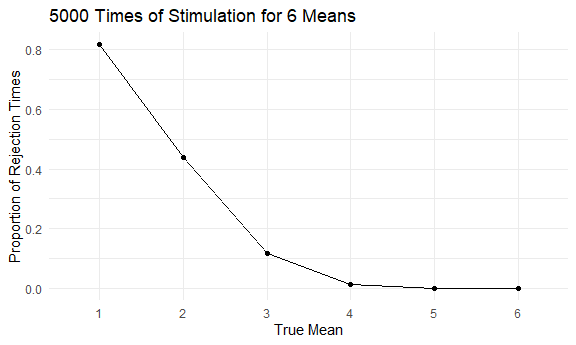
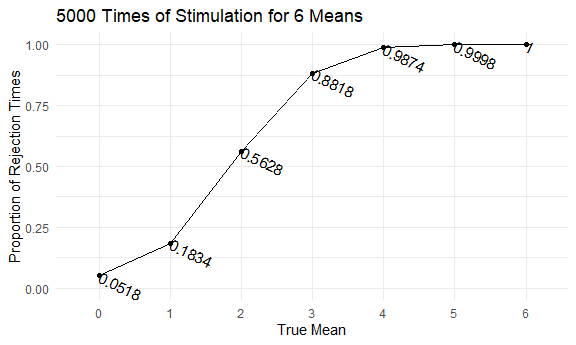
Finished the coding, left with only interpretation

diff --git a/p8105_hw5_zc2556.md b/p8105_hw5_zc2556.md
@@ -305,7 +305,7 @@ Proportion of Rejecting the Null based on 0.05 alpha when mu = 0.
 test = function(stimulate_data, true_mu) {
   sim_reject = 
     stimulate_data %>%
-      filter(p_value > 0.05) %>%
+      filter(p_value < 0.05) %>%
       summarise(
         prop_reject = n()/5000
       )
@@ -324,7 +324,7 @@ test(mu0,0)
     ## # A tibble: 1 x 2
     ##   prop_reject true_mu
     ##         <dbl>   <dbl>
-    ## 1       0.948       0
+    ## 1      0.0518       0
 
 ### Plot the Proportion of Reject VS True Mean
 
@@ -341,21 +341,25 @@ Make a table for plotting
 
 ``` r
 #make a data frames including the proportion and true means
-mu_all = list(mu1,mu2,mu3,mu4,mu5,mu6)
-for (i in 1:6) {
+mu_all = list(mu0,mu1,mu2,mu3,mu4,mu5,mu6)
+for (i in 1:7) {
   assign(paste0("prop_table", i), test(as.data.frame(mu_all[i]),i))
 }
-prop_table = bind_rows(prop_table1, prop_table2, prop_table3, prop_table4, prop_table5, prop_table6)
+prop_table = bind_rows(prop_table1, prop_table2, prop_table3, prop_table4, prop_table5, prop_table6, prop_table7) %>%
+  mutate(
+    true_mu = true_mu - 1
+  )
 prop_table
 ```
 
     ##   prop_reject true_mu
-    ## 1      0.8166       1
-    ## 2      0.4372       2
-    ## 3      0.1182       3
-    ## 4      0.0126       4
-    ## 5      0.0002       5
-    ## 6      0.0000       6
+    ## 1      0.0518       0
+    ## 2      0.1834       1
+    ## 3      0.5628       2
+    ## 4      0.8818       3
+    ## 5      0.9874       4
+    ## 6      0.9998       5
+    ## 7      1.0000       6
 
 Plot
 
@@ -364,12 +368,146 @@ prop_table %>%
   ggplot(aes(x = as.factor(true_mu), y = prop_reject, group  = 1)) +
   geom_point() +
   geom_line() +
+  ylim (0,1) +
+  geom_text(aes(label = prop_reject, hjust = 0, vjust = 0.5, angle = -25))+
   labs(
     title = "5000 Times of Stimulation for 6 Means",
     x = "True Mean",
     y = "Proportion of Rejection Times"
   ) + 
+  
   theme(legend.position = "bottom")
 ```
 
 <img src="p8105_hw5_zc2556_files/figure-gfm/unnamed-chunk-15-1.png" width="90%" />
+
+From the plot, we can observe a increasing trend while the true mean
+increases from 0 to 6 and the proportion of rejection times approaches
+to 1. From the plot, we can conclude that the much more different of the
+alternative hypothesis (larger mean in this case), the more accurate of
+the test (greater proportion of rejection times). While the mean of the
+tested mean is the same as the null, the proportion of rejection times
+is pretty close to the level of significance (0.05 in our case).
+
+### Plot the Average Estimate of mu VS True Mean
+
+``` r
+#find the average estimate of mu
+find_av = function(stimulate_data, true_mu) {
+  av_est = 
+    stimulate_data %>%
+      summarise(
+        mu_bar = round(mean(mu_hat),digits = 4)
+      )
+  mu =
+    tibble(
+      true_mu = true_mu
+    )
+  av_est = bind_cols(av_est, mu)
+  return(av_est)
+}
+
+#create table of the average of estimates
+for (i in 1:7) {
+  assign(paste0("av_est", i), find_av(as.data.frame(mu_all[i]),i))
+}
+av_est = bind_rows(av_est1, av_est2, av_est3, av_est4, av_est5, av_est6, av_est7) %>%
+  mutate(
+    true_mu = true_mu - 1
+  )
+av_est  
+```
+
+    ##   mu_bar true_mu
+    ## 1 0.0453       0
+    ## 2 1.0005       1
+    ## 3 1.9978       2
+    ## 4 2.9904       3
+    ## 5 3.9825       4
+    ## 6 4.9969       5
+    ## 7 6.0095       6
+
+Plot
+
+``` r
+av_est %>%
+  ggplot(aes(x = as.factor(true_mu), y = mu_bar, group  = 1)) +
+  geom_point() +
+  geom_line() +
+  geom_text(aes(label = mu_bar, hjust = 0, vjust = 1.1))+
+  labs(
+    title = "5000 Times of Stimulation for 6 Means",
+    x = "True Mean",
+    y = "Average of Estimated Mean"
+  ) + 
+  
+  theme(legend.position = "bottom")
+```
+
+<img src="p8105_hw5_zc2556_files/figure-gfm/unnamed-chunk-17-1.png" width="90%" />
+
+From the plot, we can clearly observe a nearly perfect linear relation
+between the average of estimated means and the true mean, showing that
+the average of estimated means is equal to the true mean. Thus, we are
+confident to estimate the true mean with the sample mean when the number
+of simulation times is large enough.
+
+### Plot the Average Estimate (rejected) of mu VS True Mean
+
+``` r
+#find the average estimate of mu (rejected)
+find_av_rej = function(stimulate_data, true_mu) {
+  av_est_rej = 
+    stimulate_data %>%
+      filter(p_value < 0.05) %>%
+      summarise(
+        mu_bar_rej = round(mean(mu_hat),digits = 4)
+      )
+  mu =
+    tibble(
+      true_mu = true_mu
+    )
+  av_est_rej = bind_cols(av_est_rej, mu)
+  return(av_est_rej)
+}
+
+#create table of the average of estimates (rejected)
+for (i in 1:7) {
+  assign(paste0("av_est_rej", i), find_av_rej(as.data.frame(mu_all[i]),i))
+}
+av_est_rej = bind_rows(av_est_rej1, av_est_rej2, av_est_rej3, av_est_rej4, av_est_rej5, av_est_rej6, av_est_rej7) %>%
+  mutate(
+    true_mu = true_mu - 1
+  )
+av_est_rej  
+```
+
+    ##   mu_bar_rej true_mu
+    ## 1     0.1181       0
+    ## 2     2.2457       1
+    ## 3     2.6108       2
+    ## 4     3.1898       3
+    ## 5     4.0117       4
+    ## 6     4.9976       5
+    ## 7     6.0095       6
+
+Plot
+
+``` r
+av_est_rej %>%
+  ggplot(aes(x = as.factor(true_mu), y = mu_bar_rej, group  = 1)) +
+  geom_point() +
+  geom_line() +
+  geom_text(aes(label = mu_bar_rej, hjust = 0, vjust = 1.1))+
+  labs(
+    title = "5000 Times of Stimulation for 6 Means (Rejected)",
+    x = "True Mean",
+    y = "Average of Estimated Mean (Rejected)"
+  ) + 
+  theme(legend.position = "bottom")
+```
+
+<img src="p8105_hw5_zc2556_files/figure-gfm/unnamed-chunk-19-1.png" width="90%" />
+
+From the plot, we don’t observe a nearly perfect linear relation between
+the rejected average of estimated means and the true mean when
